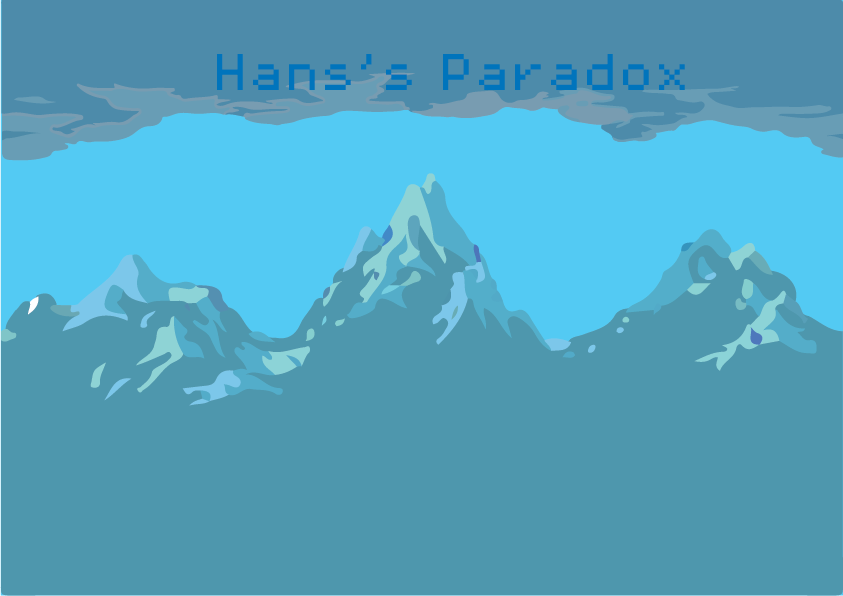
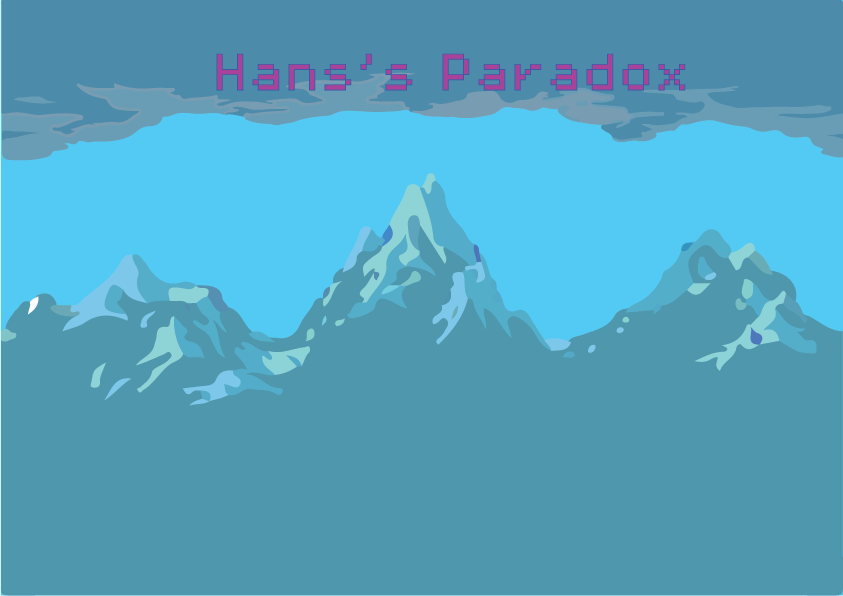
Updated button design, fix the pull out now, please

Changed region(s): [[0.5243, 0.0906, 0.8327, 0.151], [0.2467, 0.0906, 0.4935, 0.151]]

diff --git a/src/MenuState.cpp b/src/MenuState.cpp
@@ -7,8 +7,8 @@ MenuState::MenuState(sf::RenderWindow& window, StateManager& manager) :
 {
 	ResizeView(window, view);
 
-	GameButton = MenuButton(sf::Vector2f(0.f, -150.f), sf::Vector2f(500.f, 100.f), &textures.get("menu_design/boxes_sharp.png"), sf::IntRect(0, 0, 1020, 296));
-	EditorButton = MenuButton(sf::Vector2f(0.f, 0.f), sf::Vector2f(500.f, 100.f), &textures.get("menu_design/boxes_sharp.png"), sf::IntRect(2049, 0, 1020, 296));
+	GameButton = MenuButton(sf::Vector2f(0.f, -150.f), sf::Vector2f(500.f, 100.f), &textures.get("menu_design/boxes_sharp_1.png"), sf::IntRect(0, 0, 1020, 296));
+	EditorButton = MenuButton(sf::Vector2f(0.f, 0.f), sf::Vector2f(500.f, 100.f), &textures.get("menu_design/boxes_sharp_1.png"), sf::IntRect(2049, 0, 1020, 296));
 
 	background.setSize(sf::Vector2f(843.f, 596.f));
 	background.setOrigin(background.getSize() / 2.f);
